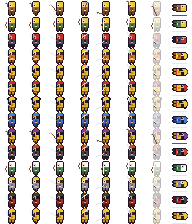
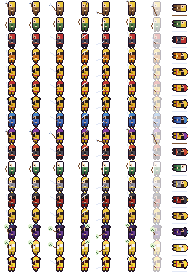
v0.21.0: 冀州篇（下）張寶・張角・三張合體，第一章完結
Claude-Session: https://claude.ai/code/session_01JiiwSTohZdt9gnXnKPj9ao

diff --git a/data/dialogue.js b/data/dialogue.js
@@ -368,7 +368,89 @@ window.DATA.dialogue = {
     { speaker: '劉備', text: '老師！我去洛陽為您申冤！' },
     { speaker: '盧植', text: '不必。天下事，不在一人。若有緣，咱們來日再見。', act: { leave: 'luzhi' } },
     { speaker: '', text: '朝廷改派董卓接替，董卓攻廣宗無功，不久被撤換。皇甫嵩將從冀州南面趕來，接手大局。' },
-    { speaker: '', text: '【第一章 冀州篇（上）　廣宗・張梁　完】（張寶、張角、三張合體，製作中）' }
+    { speaker: '', text: '【第一章 冀州篇（上）　廣宗・張梁　完】' },
+    { speaker: '', text: '（皇甫嵩已趕到廣宗營中。往東走，是張寶據守的下曲陽。）' }
+  ],
+  path_blocked7: [
+    { speaker: '', text: '往東是下曲陽，但盧植的事還沒處理完。（先看完營中的事件。）' }
+  ],
+  path_blocked8: [
+    { speaker: '', text: '往東是廣宗城內，但下曲陽的張寶還擋在路上。（先擊敗他。）' }
+  ],
+  gz_huangfu: [
+    { speaker: '皇甫嵩', text: '我是皇甫嵩，奉詔接替盧植。你們便是劉備、關羽、張飛吧？長社、倉亭，都聽說了。' },
+    { speaker: '劉備', text: '將軍，盧老師他……' },
+    { speaker: '皇甫嵩', text: '我知道。朝廷處置不公。但眼前的事，是把這場仗打完，才對得起他的堅壁。' },
+    { speaker: '皇甫嵩', text: '張梁被擊退，城內人心浮動。張角本人病勢不輕，下曲陽的張寶卻還在。我要你們先去下曲陽，拔掉張寶。' },
+    { speaker: '諸葛貓妖', text: '病重的天公將軍，和還能打的地公將軍。……這個陣容，聽起來很不吉利。' }
+  ],
+  xq_intro: [
+    { speaker: '', text: '下曲陽。山勢起伏，營寨依山而建，山腰上插滿黃旗，風一吹，滿山都是響聲。' },
+    { speaker: '皇甫嵩軍斥候', text: '張寶據山而守，最會用妖術。聽說他一揮扇，山裡就起霧，連官軍的鼓點都聽不清。', set: { xq_intro_done: true } },
+    { speaker: '關羽', text: '霧，擋得住眼睛，擋不住刀。' }
+  ],
+  xq_scout: [
+    { speaker: '斥候', text: '皇甫將軍說了，這是張氏三兄弟的第二關。打穿他，張角的城就在眼前。' }
+  ],
+  xq_monk: [
+    { speaker: '道人', text: '我也曾喝過張角的符水。喝完不但沒好，還拉了三天肚子。……可是那時候，周圍的人都說好了，我也就跟著說好。' },
+    { speaker: '劉備', text: '……人不是傻，是無路可走。' }
+  ],
+  boss_zhangbao: [
+    { speaker: '張寶', text: '來了？大哥說，官軍會從東邊來，結果來的是你們。山裡的霧，是我的眼睛。' },
+    { speaker: '張寶', text: '我兄長說：蒼天已死，黃天當立。你們這些吃朝廷俸祿的，哪個能說出為什麼？' },
+    { speaker: '劉備', text: '我不吃朝廷的俸祿。我是來救被你們逼得流離失所的人。' },
+    { speaker: '張寶', text: '我們也是被逼的！被逼得活不下去，才拿起刀！' },
+    { speaker: '關羽', text: '被逼，不是殺無辜的理由。' },
+    { speaker: '張寶', text: '……哼。霧起！', act: { battle: 'boss9', flag: 'zhangbao_down', after: 'zhangbao_after' } }
+  ],
+  zhangbao_after: [
+    { speaker: '', text: '山霧漸散，張寶倒在亂石之間，手裡的羽扇斷成兩截。' },
+    { speaker: '張寶', text: '……大哥，我們輸了。但天下的人，不會因為我們輸了，就不再吃不上飯。' },
+    { speaker: '', text: '（獲得地公羽扇。往東走，前往廣宗城內。）' }
+  ],
+  gc_intro: [
+    { speaker: '', text: '廣宗城內，街道冷清，一座黃色的高臺立在城心，臺上人影端坐，香煙裊裊。' },
+    { speaker: '皇甫嵩', text: '那就是張角。……他的臉色，比我想像的還要差。', set: { gc_intro_done: true } },
+    { speaker: '劉備', text: '他……看起來，就是個病重的老人。' },
+    { speaker: '諸葛貓妖', text: '病重的老人，擁有百萬信徒。這比任何將軍都要可怕。' }
+  ],
+  gc_disciple: [
+    { speaker: '信徒', text: '大賢良師說了，只要誠心，病就會好。我家孩子發燒了三天，我替他求了符水……' },
+    { speaker: '劉備', text: '請讓他去看大夫。符水，治不了病。' },
+    { speaker: '信徒', text: '……我知道。可是除了這個，我什麼都沒有了。' }
+  ],
+  gc_huangfu: [
+    { speaker: '皇甫嵩', text: '我在城外壓陣。這最後一戰，我交給你們。……別讓我失望。' }
+  ],
+  boss_zhangjiao: [
+    { speaker: '張角', text: '……咳。你們終究，還是來了。' },
+    { speaker: '劉備', text: '張角。你的兩個弟弟都敗了。降了吧，我保你一命。' },
+    { speaker: '張角', text: '一命？這條命，從我倒下起，就不屬於我自己。我是百萬人的天。我若降，他們就沒有天了。' },
+    { speaker: '關羽', text: '那天，早就塌了，與你降不降無關。' },
+    { speaker: '張角', text: '塌？……哈哈哈。是啊，蒼天已死。可我不甘心。我不甘心這十年，這麼多人跟我一起，只換來一場空！' },
+    { speaker: '張角', text: '符水治不了病，我早就知道。……但是沒有符水，這些人連希望都沒有。' },
+    { speaker: '張飛', text: '你這老頭，講得還挺像回事！可是俺老張不管這些，來，打過！', act: { battle: 'boss10', flag: 'zhangjiao_down', after: 'zhangjiao_after' } }
+  ],
+  zhangjiao_after: [
+    { speaker: '', text: '張角被擊倒在高臺前，手裡的九節杖落地。他望向遠處，嘴角竟浮出一絲笑意。' },
+    { speaker: '張角', text: '……好。官軍之中，有你們這樣的人。也算……值得。' },
+    { speaker: '張角', text: '可是，我的弟弟們，還沒有放棄。他們以太平要術的最後一點力量，要與我合一。' },
+    { speaker: '', text: '高臺轟然震動。張寶、張梁的身影從地下升起，三人身上的黃光匯聚，化為一個巨大的身影。' },
+    { speaker: '三張', text: '蒼天已死！黃天當立！我們三人合而為一，這天，今日就要換過！', act: { battle: 'boss11', flag: 'sanzhang_down', after: 'sanzhang_after' } }
+  ],
+  sanzhang_after: [
+    { speaker: '', text: '黃光散去。三張的身影，像三堆落下的灰，悄悄地被風吹遠了。' },
+    { speaker: '', text: '數月之後，黃巾主力被皇甫嵩徹底擊潰，轟轟烈烈的黃巾之亂，至此落幕。' },
+    { speaker: '皇甫嵩', text: '各位功勞，我一定上報朝廷。' },
+    { speaker: '劉備', text: '我們什麼都不要。只想，讓天下人安穩一些。' },
+    { speaker: '關羽', text: '大哥，咱們結義那時候說的是：上報國家，下安黎庶。' },
+    { speaker: '張飛', text: '哈！那麼，俺老張就先去喝一碗酒！' },
+    { speaker: '諸葛貓妖', text: '……我還在想一件事。我是怎麼穿越來的？為什麼是這個時候？' },
+    { speaker: '', text: '朝廷論功行賞，劉備因功授任安喜縣尉。亂世，才剛剛開始。', act: { gold: 2000 } },
+    { speaker: '', text: '（獲得黃天令旗、金 2000。）' },
+    { speaker: '', text: '【第一章　黃巾之亂篇　完】' },
+    { speaker: '', text: '（第二章製作中，敬請期待。）' }
   ],
   gz_soldier: [
     { speaker: '守營士兵', text: '盧將軍愛兵如子。上個月我生病，他把自己的米湯分了我一半。' }

diff --git a/data/battle.js b/data/battle.js
@@ -76,6 +76,9 @@ window.DATA.battle = {
     qushuai: { name: '黃巾渠帥', terrain: { plain: 'A', forest: 'B', mountain: 'B', sea: 'C' }, int: 28, lead: 22, luck: 10, title: '黃巾渠帥', cls: '渠帥', weapon: '刀', desc: '廣陽黃巾的首領，兵力雄厚，會全體衝鋒與重斬。', hp: 2600, atk: 52, def: 26, spd: 12, exp: 200, gold: 200, sprite: 5, boss: true, ai: 'boss' },
     veteran: { name: '黃巾悍卒', terrain: { plain: 'B', forest: 'B', mountain: 'A', sea: 'C' }, int: 10, lead: 6, luck: 5, title: '黃巾悍卒', cls: '精兵', weapon: '刀', desc: '身經百戰的黃巾老卒，穿著鐵甲，打起來像一堵牆。', hp: 170, atk: 28, def: 16, spd: 10, exp: 40, gold: 40, sprite: 11 },
     zhangliang: { name: '張梁', terrain: { plain: 'A', forest: 'B', mountain: 'A', sea: 'C' }, int: 44, lead: 34, luck: 10, title: '人公將軍', cls: '大帥', weapon: '刀', desc: '張角的三弟，自稱人公將軍，守在廣宗城外。黃巾軍中最有章法的一股，不會輕易亂陣。', hp: 12700, atk: 104, def: 48, spd: 12, exp: 760, gold: 640, sprite: 13, boss: true, ai: 'boss' },
+    zhangbao: { name: '張寶', terrain: { plain: 'B', forest: 'A', mountain: 'S', sea: 'B' }, int: 56, lead: 34, luck: 12, title: '地公將軍', cls: '大帥', weapon: '扇', desc: '張角的二弟，自稱地公將軍，據守下曲陽。精通妖術，在山地作戰特別強。', hp: 9800, atk: 96, def: 44, spd: 13, exp: 900, gold: 760, sprite: 14, boss: true, ai: 'boss' },
+    zhangjiao: { name: '張角', terrain: { plain: 'A', forest: 'A', mountain: 'A', sea: 'B' }, int: 64, lead: 40, luck: 14, title: '天公將軍・大賢良師', cls: '教主', weapon: '扇', desc: '太平道的教主，自稱天公將軍。以符水治病聚集百萬信徒，黃巾之亂的起點。', hp: 12500, atk: 102, def: 46, spd: 12, exp: 1100, gold: 900, sprite: 15, boss: true, ai: 'boss' },
+    sanzhang: { name: '三張合體', terrain: { plain: 'A', forest: 'A', mountain: 'A', sea: 'A' }, int: 70, lead: 44, luck: 15, title: '天公・地公・人公', cls: '合體', weapon: '刀', desc: '張角、張寶、張梁三兄弟以太平要術之力合而為一。黃巾之亂，最後的敵人。', hp: 18500, atk: 100, def: 48, spd: 12, exp: 2400, gold: 2000, sprite: 16, boss: true, ai: 'boss' },
     busi: { name: '卜巳', terrain: { plain: 'A', forest: 'B', mountain: 'B', sea: 'B' }, int: 28, lead: 30, luck: 8, title: '東郡黃巾渠帥', cls: '渠帥', weapon: '刀', desc: '東郡黃巾的首領，駐紮在倉亭，人多勢眾、力氣很大，但不太會用腦。', hp: 10200, atk: 95, def: 44, spd: 12, exp: 620, gold: 520, sprite: 12, boss: true, ai: 'boss' },
     pengtuo: { name: '彭脫', terrain: { plain: 'A', forest: 'S', mountain: 'B', sea: 'C' }, int: 34, lead: 26, luck: 9, title: '汝南黃巾渠帥', cls: '渠帥', weapon: '刀', desc: '汝南黃巾的首領，熟悉山林水澤，在森林裡特別難纏。', hp: 6300, atk: 76, def: 35, spd: 13, exp: 440, gold: 380, sprite: 7, boss: true, ai: 'boss' },
     zhaohong: { name: '趙弘', terrain: { plain: 'B', forest: 'B', mountain: 'A', sea: 'C' }, int: 30, lead: 28, luck: 8, title: '宛城黃巾大帥', cls: '大帥', weapon: '槍', desc: '宛城黃巾的大帥，聚眾十餘萬，佔據宛城。', hp: 8000, atk: 86, def: 40, spd: 12, exp: 480, gold: 420, sprite: 8, boss: true, ai: 'boss' },
@@ -93,6 +96,9 @@ window.DATA.battle = {
     field5: [ ['veteran', 'veteran', 'elite', 'archer'], ['veteran', 'captain', 'archer', 'archer'], ['elite', 'elite', 'veteran', 'bandit', 'archer'], ['captain', 'veteran', 'veteran', 'veteran'] ],
     field6: [ ['veteran', 'veteran', 'elite', 'archer'], ['captain', 'veteran', 'archer', 'archer'], ['elite', 'elite', 'veteran', 'veteran', 'archer'], ['captain', 'captain', 'veteran', 'elite'] ],
     boss8:  [ ['zhangliang', 'veteran', 'veteran', 'elite', 'elite', 'archer'] ],
+    boss9:  [ ['zhangbao', 'veteran', 'veteran', 'elite', 'elite', 'archer'] ],
+    boss10: [ ['zhangjiao', 'elite', 'elite', 'veteran', 'archer', 'archer'] ],
+    boss11: [ ['sanzhang', 'elite', 'elite', 'archer', 'archer'] ],
     boss4:  [ ['pengtuo', 'veteran', 'veteran', 'archer', 'archer'] ],
     boss5:  [ ['zhaohong', 'veteran', 'veteran', 'elite', 'archer'] ],
     boss7:  [ ['busi', 'veteran', 'veteran', 'elite', 'elite', 'archer'] ],
@@ -105,7 +111,7 @@ window.DATA.battle = {
 // rematch：旗標 → 敵人 id；rematchRate：每次遇敵時，有任一頭目被打倒的話，出現殘部的機率。
 (function () {
   const B = window.DATA.battle;
-  B.rematch = { boss_down: 'chengyuanzhi', boss2_down: 'qushuai', bocai_down: 'bocai', pengtuo_down: 'pengtuo', zhaohong_down: 'zhaohong', hanzhong_down: 'hanzhong', busi_down: 'busi', zhangliang_down: 'zhangliang' };
+  B.rematch = { boss_down: 'chengyuanzhi', boss2_down: 'qushuai', bocai_down: 'bocai', pengtuo_down: 'pengtuo', zhaohong_down: 'zhaohong', hanzhong_down: 'hanzhong', busi_down: 'busi', zhangliang_down: 'zhangliang', zhangbao_down: 'zhangbao', zhangjiao_down: 'zhangjiao' };
   B.rematchRate = 0.05;
   Object.keys(B.rematch).forEach(function (f) {
     const id = B.rematch[f], e = B.enemies[id];

diff --git a/data/maps.js b/data/maps.js
@@ -438,7 +438,7 @@ window.DATA.maps = {
       'T......................T',
       'T......................T',
       'T......................T',
-      ',,,,,,,,,,,,,,,,,,,,,,,T',
+      ',,,,,,,,,,,,,,,,,,,,,,,,',
       'T......................T',
       'T.....f................T',
       'T..RRRR........RRRR....T',
@@ -454,14 +454,99 @@ window.DATA.maps = {
       { once: 'gz_intro_done', dialogue: 'gz_intro' }
     ],
     warps: [
-      { x: 0, y: 10, to: 'jizhou', tx: 22, ty: 10, dir: 'left' }
+      { x: 0, y: 10, to: 'jizhou', tx: 22, ty: 10, dir: 'left' },
+      { x: 23, y: 10, to: 'xiaquyang', tx: 1, ty: 10, dir: 'right', need: 'zuofeng_done', deny: 'path_blocked7' }
     ],
     npcs: [
       { id: 'luzhi', name: '盧植', sprite: 19, x: 5, y: 6, dir: 'right', dialogue: 'gz_luzhi', hideIf: 'guest_luzhi' },
       { id: 'zhangliang', name: '張梁', sprite: 21, x: 17, y: 10, dir: 'left', dialogue: 'boss_zhangliang', showIf: 'guest_luzhi', hideIf: 'zhangliang_down' },
       { id: 'zuofeng', name: '左豐', sprite: 20, x: 7, y: 6, dir: 'left', dialogue: 'gz_zuofeng', showIf: 'zhangliang_down', hideIf: 'zuofeng_done' },
+      { id: 'huangfu5', name: '皇甫嵩', sprite: 16, x: 9, y: 8, dir: 'down', dialogue: 'gz_huangfu', showIf: 'zuofeng_done' },
       { id: 'gzsoldier', name: '守營士兵', sprite: 9, x: 9, y: 12, dir: 'up', dialogue: 'gz_soldier' },
       { id: 'gzmedic', name: '軍醫', sprite: 10, x: 5, y: 16, dir: 'down', dialogue: 'gz_medic' }
+    ],
+    objects: []
+  },
+  xiaquyang: {
+    name: '下曲陽',
+    battleBg: 'grass',
+    home: { map: 'guangzong' },
+    encounter: { group: 'field6', rate: 0.09, minSteps: 4 },
+    tiles: [
+      'TTTTTTTTTTTTTTTTTTTTTTTT',
+      'T.MMMMMMMMMMMMMMMMMMM..T',
+      'T.MMMMMMMMMMMMMMMMMMM..T',
+      'T.MMM..............MM..T',
+      'T.MMM....MMMM......MM..T',
+      'T........MMMM..........T',
+      'T..YYY.................T',
+      'T..YYY.......f.........T',
+      'T......................T',
+      'T......................T',
+      ',,,,,,,,,,,,,,,,,,,,,,,,',
+      'T......................T',
+      'T..MM..............YYY.T',
+      'T..MM..............YYY.T',
+      'T......f...............T',
+      'T..............MMMM....T',
+      'T..YYYYY.......MMMM....T',
+      'T..YYYYY...............T',
+      'T......................T',
+      'TTTTTTTTTTTTTTTTTTTTTTTT'
+    ],
+    start: { x: 1, y: 10, dir: 'right' },
+    events: [
+      { once: 'xq_intro_done', dialogue: 'xq_intro' }
+    ],
+    warps: [
+      { x: 0, y: 10, to: 'guangzong', tx: 22, ty: 10, dir: 'left' },
+      { x: 23, y: 10, to: 'gzcity', tx: 1, ty: 10, dir: 'right', need: 'zhangbao_down', deny: 'path_blocked8' }
+    ],
+    npcs: [
+      { id: 'zhangbao', name: '張寶', sprite: 22, x: 17, y: 10, dir: 'left', dialogue: 'boss_zhangbao', hideIf: 'zhangbao_down' },
+      { id: 'xqscout', name: '皇甫嵩軍斥候', sprite: 9, x: 6, y: 12, dir: 'right', dialogue: 'xq_scout' },
+      { id: 'xqmonk', name: '白衣的道人', sprite: 8, x: 12, y: 8, dir: 'down', dialogue: 'xq_monk' }
+    ],
+    objects: []
+  },
+  gzcity: {
+    name: '廣宗城內',
+    battleBg: 'grass',
+    home: { map: 'xiaquyang' },
+    encounter: { group: 'field6', rate: 0.05, minSteps: 6 },
+    tiles: [
+      'TTTTTTTTTTTTTTTTTTTTTTTT',
+      'T..RRRRR......RRRRR....T',
+      'T..RRRRR......RRRRR....T',
+      'T..WWDWW......WWDWW....T',
+      'T......................T',
+      'T..........f...........T',
+      'T......................T',
+      'T......................T',
+      'T......................T',
+      'T......................T',
+      ',,,,,,,,,,,,,,,,,,,,,,,T',
+      'T......................T',
+      'T..RRRR........RRRR....T',
+      'T..RRRR........RRRR....T',
+      'T..WDWW........WWDW....T',
+      'T......................T',
+      'T......................T',
+      'T..f...........f.......T',
+      'T......................T',
+      'TTTTTTTTTTTTTTTTTTTTTTTT'
+    ],
+    start: { x: 1, y: 10, dir: 'right' },
+    events: [
+      { once: 'gc_intro_done', dialogue: 'gc_intro' }
+    ],
+    warps: [
+      { x: 0, y: 10, to: 'xiaquyang', tx: 22, ty: 10, dir: 'left' }
+    ],
+    npcs: [
+      { id: 'zhangjiao', name: '張角', sprite: 23, x: 12, y: 5, dir: 'down', dialogue: 'boss_zhangjiao', hideIf: 'zhangjiao_down' },
+      { id: 'gcdisciple', name: '黃巾信徒', sprite: 8, x: 7, y: 8, dir: 'right', dialogue: 'gc_disciple' },
+      { id: 'gchuangfu', name: '皇甫嵩', sprite: 16, x: 8, y: 15, dir: 'right', dialogue: 'gc_huangfu' }
     ],
     objects: []
   },

diff --git a/tests/yingchuan_test.js b/tests/yingchuan_test.js
@@ -24,7 +24,7 @@ const sleep = ms => new Promise(r => setTimeout(r, ms));
   // 地圖資料：每列等長、字元都在 legend、NPC／傳送點落在可走的格子、對話都存在
   const md = await page.evaluate(() => {
     const D = DATA, out = [];
-    ['yingchuan', 'changshe', 'runan', 'wancheng', 'dongjun', 'jizhou', 'guangzong'].forEach(id => {
+    ['yingchuan', 'changshe', 'runan', 'wancheng', 'dongjun', 'jizhou', 'guangzong', 'xiaquyang', 'gzcity'].forEach(id => {
       const m = D.maps[id], w = m.tiles[0].length;
       if (!m.tiles.every(r => r.length === w)) out.push(id + ' ragged');
       m.tiles.forEach((r, y) => [...r].forEach((ch, x) => { if (!(ch in D.legend)) out.push(id + ' bad tile ' + ch); }));
@@ -142,6 +142,24 @@ const sleep = ms => new Promise(r => setTimeout(r, ms));
   check('zhangliang_down set', s.flags.zhangliang_down === true, s.flags);
   await face('guangzong', 6, 6, 'right'); await sleep(400); await talk(); await sleep(400); await talk(); s = await S();
   check('zuofeng scene: luzhi leaves the party', s.flags.zuofeng_done === true && !s.ids.includes('luzhi'), { f: s.flags.zuofeng_done, ids: s.ids });
+  // 冀州篇（下）：張寶・張角・三張合體
+  const winBattle = async () => { await page.evaluate(() => { const t = Engine.top(); t.b.enemies.forEach(e => { e.hp = 0; e.dhp = 0; }); t.finish('win'); }); for (let i = 0; i < 90 && (await S()).scene === 'BattleScene'; i++) await tap('z'); };
+  await go('guangzong', 22, 10, 'right'); await sleep(150); await tap('ArrowRight'); await sleep(500); await talk();
+  check('guangzong east exit leads to xiaquyang after zuofeng', (await S()).map === 'xiaquyang', (await S()).map);
+  await go('xiaquyang', 22, 10, 'right'); await sleep(150); await tap('ArrowRight'); await sleep(500); await talk();
+  check('xiaquyang east exit blocked until zhangbao', (await S()).map === 'xiaquyang', (await S()).map);
+  await face('xiaquyang', 18, 10, 'left'); await sleep(500);
+  check('zhangbao starts boss9', (await S()).scene === 'BattleScene');
+  await winBattle(); await sleep(900); await talk(); await sleep(400); await talk(); s = await S();
+  check('zhangbao_down set and gear dropped', s.flags.zhangbao_down === true && s.gear.dikong_fan >= 1, { f: s.flags.zhangbao_down, g: s.gear });
+  await go('xiaquyang', 22, 10, 'right'); await sleep(150); await tap('ArrowRight'); await sleep(500); await talk();
+  check('xiaquyang east exit opens to gzcity', (await S()).map === 'gzcity', (await S()).map);
+  await face('gzcity', 12, 6, 'up'); await sleep(500);
+  check('zhangjiao starts boss10', (await S()).scene === 'BattleScene');
+  await winBattle(); await sleep(900); await talk(); await sleep(900);
+  check('after zhangjiao, the merged three start boss11', (await S()).scene === 'BattleScene' && (await page.evaluate(() => Engine.top().b.enemies[0].id)) === 'sanzhang');
+  await winBattle(); await sleep(900); await talk(); await sleep(400); await talk(); s = await S();
+  check('sanzhang_down set, chapter 1 finished', s.flags.sanzhang_down === true && s.flags.zhangjiao_down === true, s.flags);
   check('no JS errors', errors.length === 0, errors);
   console.log(`${pass} passed, ${fail} failed`);
   await browser.close(); process.exit(fail ? 1 : 0);

diff --git a/data/equipment.js b/data/equipment.js
@@ -35,6 +35,9 @@ window.DATA.equipment = {
   war_blade:   { name: '赤紋刀',   slot: 'weapon', wtype: '刀', mods: { pow: 22 }, price: 0, desc: '韓忠的佩刀，刀背刻著赤紋' },
   bronze_armor: { name: '青銅甲', slot: 'armor', mods: { def: 9 }, price: 0, desc: '卜巳穿在身上的青銅重甲，很重，但很硬' },
   renkong_sash: { name: '人公黃巾', slot: 'helm', mods: { lead: 4, int: 3, def: 3 }, price: 0, desc: '張梁頭上的黃巾，繡著「人公」二字' },
+  dikong_fan:  { name: '地公羽扇', slot: 'weapon', wtype: '扇', mods: { pow: 28, int: 4 }, price: 0, desc: '張寶使過的妖術羽扇，扇骨裡嵌著細小的符紙' },
+  taiping_book: { name: '太平要術', slot: 'charm', mods: { int: 8, lead: 4 }, price: 0, desc: '張角的太平道經書。寫的是符水與天下大勢，兩種都不太好懂' },
+  huangtian_banner: { name: '黃天令旗', slot: 'charm', mods: { lead: 6, luck: 5, def: 4 }, price: 0, desc: '三張合體後留下的黃色令旗，旗面上寫著「蒼天已死」四個字，已經褪色' },
   // 專屬武器
   qinglong:    { name: '青龍偃月刀', slot: 'weapon', wtype: '刀', mods: { pow: 18, lead: 2 }, only: 'guanyu', price: 0, desc: '關羽專屬。刀光如青龍' },
   serpent:     { name: '丈八蛇矛', slot: 'weapon', wtype: '矛', mods: { pow: 18, grd: 2 }, only: 'zhangfei', price: 0, desc: '張飛專屬。一矛橫掃一片' },
@@ -48,6 +51,7 @@ window.DATA.drops = {
   zhaohong: ['iron_helm2', 1.0],
   hanzhong: ['war_blade', 1.0],
   busi: ['bronze_armor', 1.0],
+  zhangbao: ['dikong_fan', 1.0], zhangbao_r: ['dikong_fan', 0.2], zhangjiao: ['taiping_book', 1.0], zhangjiao_r: ['taiping_book', 0.2], sanzhang: ['huangtian_banner', 1.0],
   zhangliang: ['renkong_sash', 1.0], zhangliang_r: ['renkong_sash', 0.2],
   veteran: ['leather', 0.12],
   bocai_r: ['scale', 0.25], pengtuo_r: ['river_charm', 0.2], zhaohong_r: ['iron_helm2', 0.2], hanzhong_r: ['war_blade', 0.2], busi_r: ['bronze_armor', 0.2], chengyuanzhi_r: ['rebel_blade', 0.2], qushuai_r: ['yellow_scarf', 0.3],

diff --git a/tools/sim_battle.js b/tools/sim_battle.js
@@ -120,9 +120,9 @@ for (let t = 0; t < TRIALS; t++) {
     stat.w4[key] = (stat.w4[key] || 0) + (rb.o === 'win' ? 1 : 0); stat.n4[key] = (stat.n4[key] || 0) + 1;
     return rb.o === 'win';
   };
-  if (stage(N4, 'boss4', 'b4') && stage(2, 'boss5', 'b5') && stage(2, 'boss6', 'b6') && stage(3, 'boss7', 'b7', 'field5')) { const lu = mk('luzhi'); BL.gainExp(lu, BL.expFor(party[0].level)); party.pop(); party.push(lu); stage(4, 'boss8', 'b8', 'field6'); }
+  if (stage(N4, 'boss4', 'b4') && stage(2, 'boss5', 'b5') && stage(2, 'boss6', 'b6') && stage(3, 'boss7', 'b7', 'field5')) { const lu = mk('luzhi'); BL.gainExp(lu, BL.expFor(party[0].level)); party.pop(); party.push(lu); if (stage(4, 'boss8', 'b8', 'field6')) { party.pop(); if (stage(3, 'boss9', 'b9', 'field6') && stage(3, 'boss10', 'b10', 'field6')) stage(3, 'boss11', 'b11', 'field6'); } }
 }
 console.log(`route=${route} fights=${N}: field losses ${stat.lossField}/${TRIALS}; boss win ${stat.winBoss}/${stat.n}; avg nyao Lv ${(stat.avgLv/stat.n).toFixed(1)}; avg boss rounds ${(stat.avgRounds/stat.n).toFixed(1)}`);
 console.log(`stage2 fights=${N2}: boss2 win ${stat.win2}/${stat.n2}; avg nyao Lv ${(stat.lv2/Math.max(1,stat.n2)).toFixed(1)}`);
-console.log('stage4 (N4=' + (process.argv[6] === undefined ? 5 : +process.argv[6]) + ') ' + ['b4','b5','b6','b7','b8'].map(k => k + ' ' + (stat.w4[k]||0) + '/' + (stat.n4[k]||0) + ' Lv' + ((stat.lv4[k]||0)/Math.max(1,stat.n4[k]||0)).toFixed(1)).join('; '));
+console.log('stage4 (N4=' + (process.argv[6] === undefined ? 5 : +process.argv[6]) + ') ' + ['b4','b5','b6','b7','b8','b9','b10','b11'].map(k => k + ' ' + (stat.w4[k]||0) + '/' + (stat.n4[k]||0) + ' Lv' + ((stat.lv4[k]||0)/Math.max(1,stat.n4[k]||0)).toFixed(1)).join('; '));
 console.log(`stage3 fights=${process.argv[5] === undefined ? 5 : +process.argv[5]}: boss3 win ${stat.win3}/${stat.n3}; avg nyao Lv ${(stat.lv3/Math.max(1,stat.n3)).toFixed(1)}`);

diff --git a/data/characters.js b/data/characters.js
@@ -69,4 +69,4 @@ window.DATA.characters = {
   }
 };
 // 非隊員的對話頭像（說話者名稱 → portraits.png 的編號）
-window.DATA.npcPortraits = { '皇甫嵩': 6, '波才': 7, '朱儁': 8, '孫堅': 9, '彭脫': 10, '趙弘': 11, '韓忠': 12, '孫夏': 13, '卜巳': 14, '盧植': 15, '張梁': 16, '左豐': 17 };
+window.DATA.npcPortraits = { '皇甫嵩': 6, '波才': 7, '朱儁': 8, '孫堅': 9, '彭脫': 10, '趙弘': 11, '韓忠': 12, '孫夏': 13, '卜巳': 14, '盧植': 15, '張梁': 16, '左豐': 17, '張寶': 18, '張角': 19, '三張': 19, '三張合體': 19 };

diff --git a/src/version.js b/src/version.js
@@ -1,3 +1,3 @@
 // 遊戲版本號。發佈新版時，這裡與 package.json 的 version 必須一起改成相同的值。
-window.GAME_VERSION = '0.20.0';
+window.GAME_VERSION = '0.21.0';
 window.GAME_REPO = 'defance16042-lgtm/chuanyue-sanguo';

diff --git a/tools/build_portrait_guest.py b/tools/build_portrait_guest.py
@@ -113,9 +113,12 @@ luzhi = face((54, 80, 84), ((160, 190, 190), (84, 120, 130), (50, 76, 88)), (70,
 zhangliang = face((100, 70, 30), ((246, 214, 88), (214, 170, 46), (150, 110, 36)), (160, 90, 40), (224, 172, 130), (50, 36, 30), helm=((240, 206, 72), (190, 150, 40)), plume=(230, 120, 40), beard='long', wild=True, brow=3)
 zuofeng = face((70, 44, 84), ((190, 130, 210), (120, 60, 140), (80, 40, 96)), (230, 200, 90), (244, 212, 180), (30, 28, 34), cap=(30, 28, 34), beard='none', brow=1)
 
-sheet = Image.new('RGBA', (48 * 18, 48))
+zhangbao = face((56, 40, 80), ((150, 100, 200), (100, 60, 140), (60, 36, 90)), (120, 200, 220), (222, 172, 130), (30, 22, 40), cap=(60, 40, 90), beard='long', wild=True, brow=3)
+zhangjiao = face((110, 90, 40), ((250, 225, 120), (240, 205, 70), (180, 140, 40)), (200, 60, 50), (230, 190, 150), (236, 236, 240), helm=((250, 220, 90), (200, 160, 40)), plume=(220, 60, 50), beard='long', brow=2, wrinkles=True)
+
+sheet = Image.new('RGBA', (48 * 20, 48))
 sheet.paste(base, (0, 0))
-for i, im in enumerate([zoujing(), caocao, huang, bocai, zhujun, sunjian, pengtuo, zhaohong, hanzhong, sunxia, busi, luzhi, zhangliang, zuofeng]):
+for i, im in enumerate([zoujing(), caocao, huang, bocai, zhujun, sunjian, pengtuo, zhaohong, hanzhong, sunxia, busi, luzhi, zhangliang, zuofeng, zhangbao, zhangjiao]):
     sheet.paste(im, (48 * (4 + i), 0))
 sheet.save(P)
 print('ok', sheet.size)

diff --git a/tools/build_assets.py b/tools/build_assets.py
@@ -418,6 +418,10 @@ CHARACTERS = [
     ("luzhi", dict(pal=((232, 192, 158), (240, 240, 240), (70, 110, 120), (150, 170, 170), (50, 60, 70)), beard="long", hat=(60, 80, 90))),
     ("zuofeng", dict(pal=((244, 212, 180), (30, 28, 34), (120, 60, 140), (230, 200, 90), (60, 40, 50)), hat=(30, 28, 34))),
     ("zhangliang", dict(pal=((226, 176, 136), (50, 36, 30), (230, 190, 60), (160, 90, 40), (60, 40, 30)), beard="long", hat=(236, 200, 60), plume=(230, 120, 40))),
+    # 22: 張寶（地公將軍：紫黑道袍、長鬚、黑冠） 23: 張角（天公將軍：黃袍、黃巾、白鬚） 24: 三張合體（金紅大袍、三色纓）
+    ("zhangbao", dict(pal=((222, 172, 130), (30, 22, 40), (100, 60, 140), (60, 40, 90), (60, 40, 30)), beard="long", wild=True, hat=(60, 40, 90), plume=(120, 200, 220))),
+    ("zhangjiao", dict(pal=((230, 190, 150), (240, 240, 240), (240, 210, 70), (200, 150, 40), (90, 60, 40)), beard="long", hat=(250, 220, 90), plume=(220, 60, 50))),
+    ("sanzhang", dict(pal=((226, 176, 136), (60, 20, 20), (250, 220, 60), (200, 40, 40), (60, 40, 30)), beard="long", wild=True, hat=(250, 220, 60), plume=(200, 40, 40))),
 ]
 DIRS = ("down", "up", "left", "right")
 

diff --git a/tools/build_battle16.py b/tools/build_battle16.py
@@ -141,6 +141,10 @@ ENEMIES = [
     (dict(pal=((220, 170, 130), (30, 22, 24), (170, 50, 44), (60, 60, 70), (60, 40, 30)), beard="long", hat=(60, 60, 70), plume=(230, 200, 60)), "sabre"),
     # 張梁：人公將軍，黃盔橘纓、金甲、長鬚、闊刀
     (dict(BA.CHARACTERS[21][1]), "sabre"),
+    # 張寶（row14）、張角（row15）、三張合體（row16）
+    (dict(BA.CHARACTERS[22][1]), "fan"),
+    (dict(BA.CHARACTERS[23][1]), "fan"),
+    (dict(BA.CHARACTERS[24][1]), "sabre"),
 ]
 
 

diff --git a/README.md b/README.md
@@ -34,6 +34,7 @@
 - 第一章 中原篇（二）：汝南（彭脫，森林系 Boss）→ 宛城（趙弘 → 韓忠＋孫夏；朱儁、孫堅登場）。卜巳、冀州三張之後製作
 - 第一章 中原篇（三）：東郡倉亭（卜巳，Boss 戰）；打完後曹操離隊。下一批：冀州篇（張梁、張寶、張角、三張合體）
 - 第一章 冀州篇（上）：冀州路 → 廣宗（盧植助戰、Boss 張梁、左豐索賄、盧植被徵召）。下一批：張寶、張角、三張合體
+- 第一章 冀州篇（下）：下曲陽（張寶）→ 廣宗城內（張角 → 三張合體）。第一章完結，劉備授安喜縣尉；第二章製作中
 - 捲土重來：打倒過的頭目，之後野外遇敵有 5% 機率換成同名頭目（能力與原本頭目完全相同，可能掉裝備）
 - 計謀隨等級進化：各角色有自己的計謀路線（例：劉備 Lv8 大撫慰、Lv16 仁者無敵；諸葛貓妖智謀路線 Lv10 烈火計、Lv18 業火計），學會後取代低階計謀，升級時會顯示
 - 助戰：別陣營的角色（鄒靖）暫時入隊，故事結束就離隊
